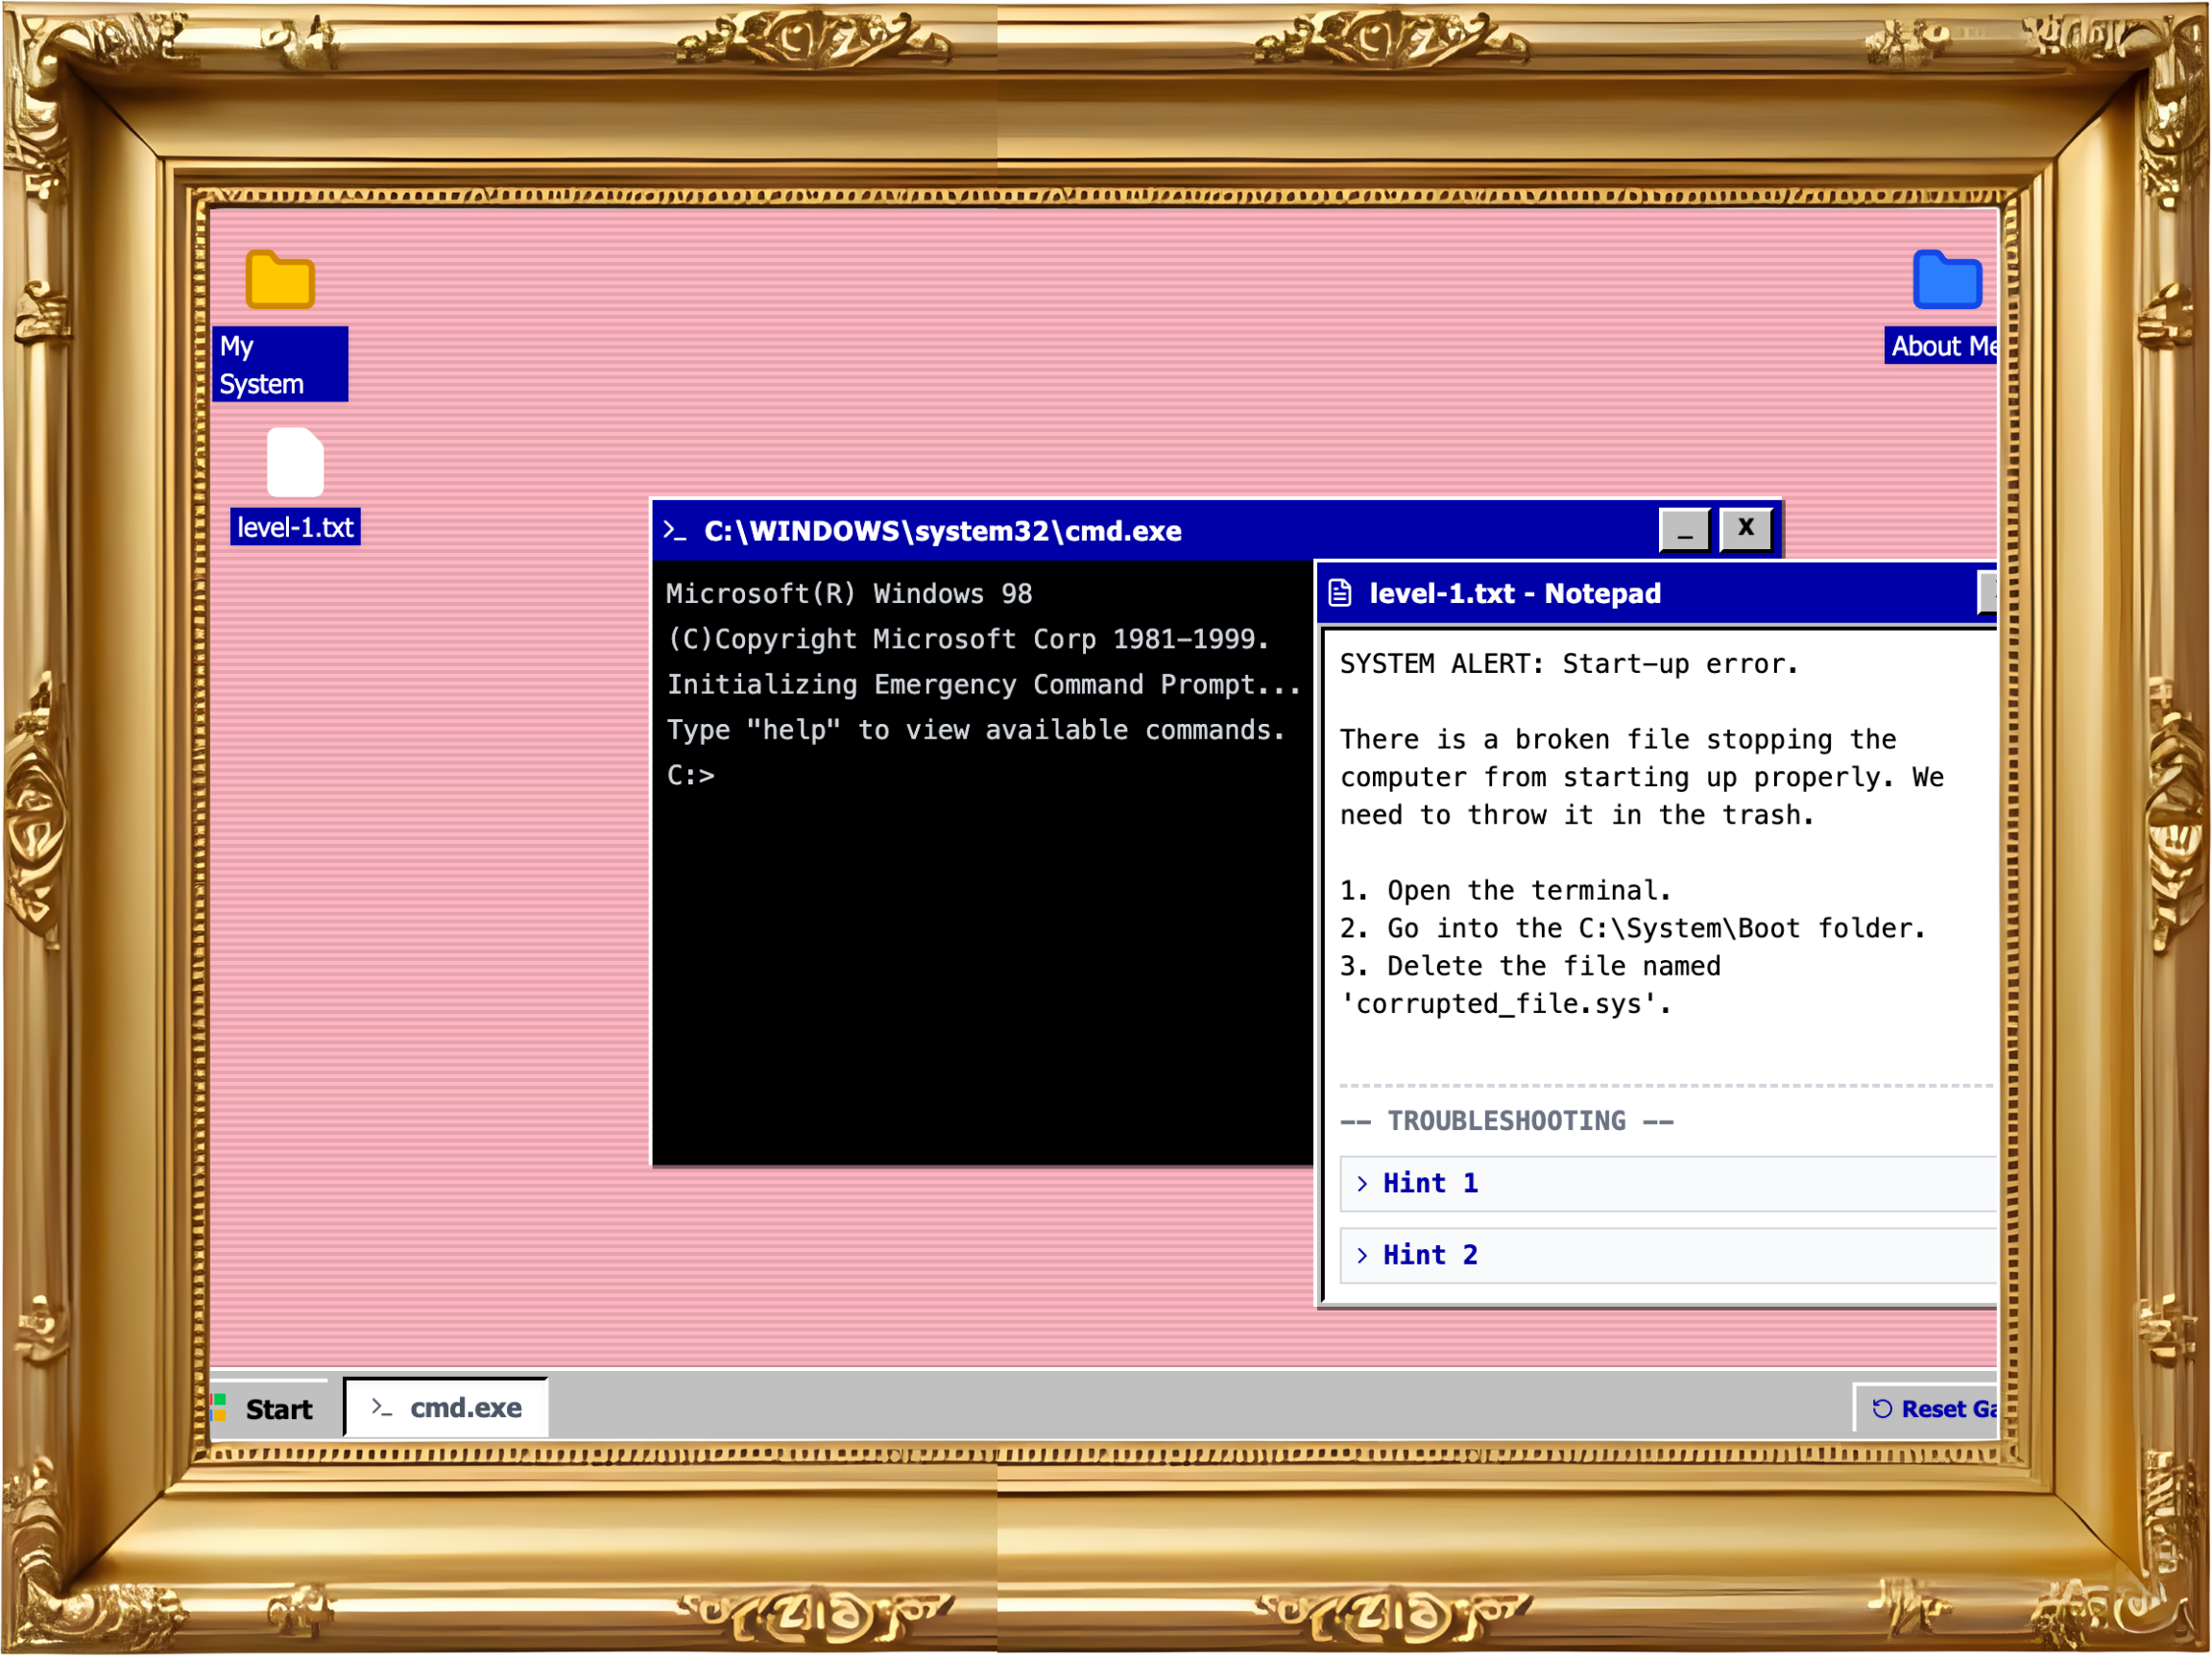
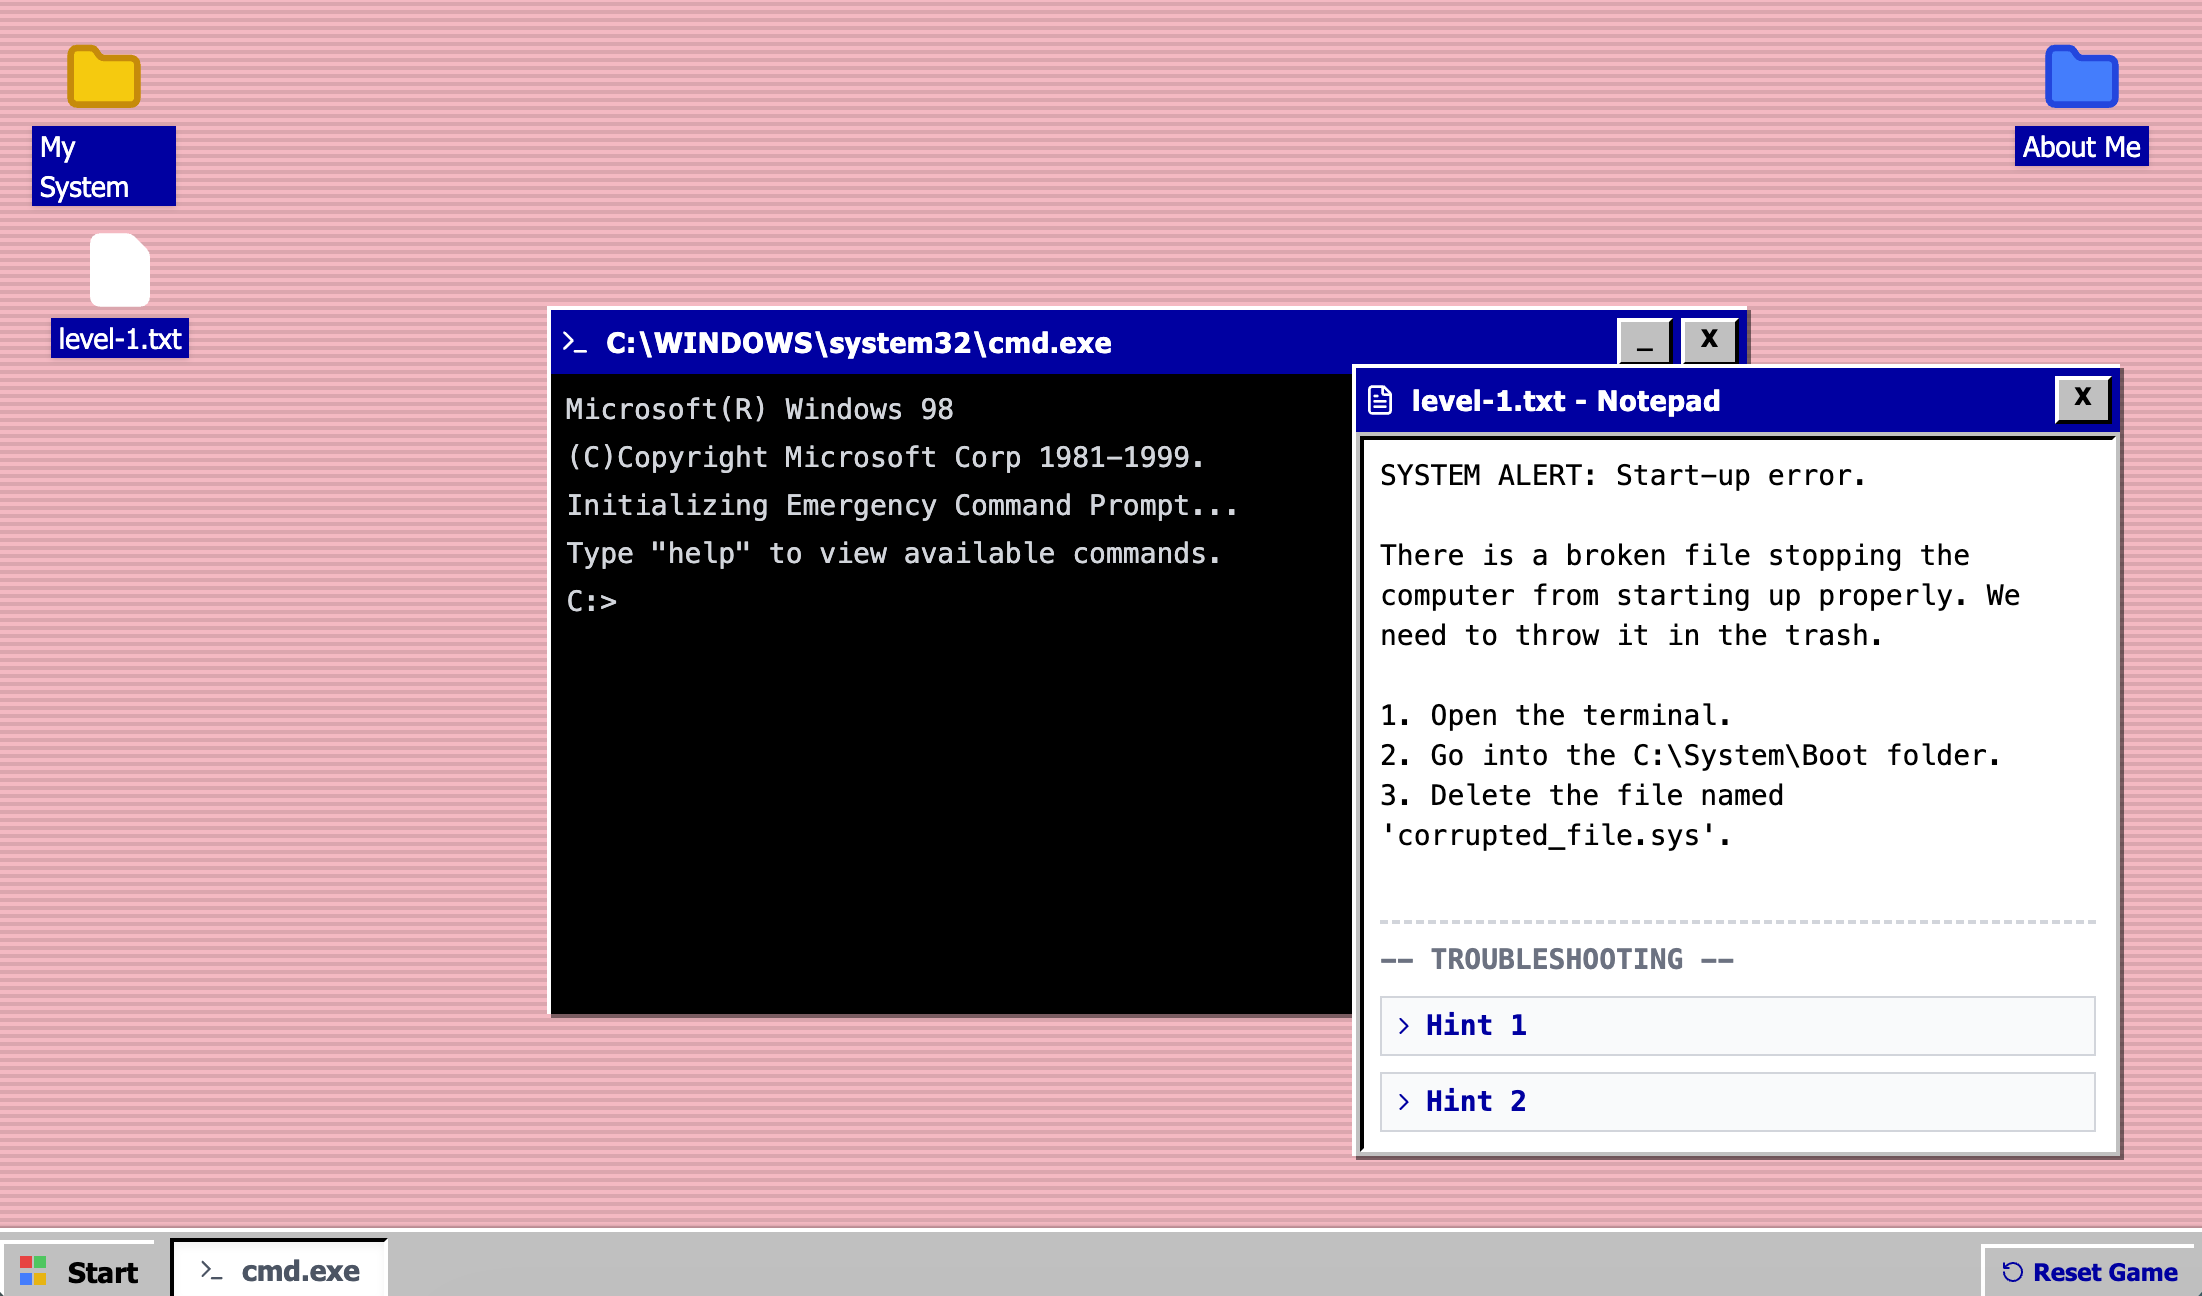
finished home page & started guestbook

diff --git a/src/components/GardenCanvas.jsx b/src/components/GardenCanvas.jsx
@@ -1,0 +1,91 @@
+import { useState, useRef } from 'react';
+import { motion, AnimatePresence } from 'framer-motion';
+
+export default function GardenCanvas() {
+	const gardenRef = useRef(null);
+	const [plantingSpot, setPlantingSpot] = useState(null);
+	
+	const [plantedFlowers, setPlantedFlowers] = useState([
+		{ id: 1, x: 20, y: 50, name: "Revati", flower: "Tulip" }
+	]);
+
+	const handleGardenClick = (e) => {
+		if (e.target.closest('.flower-element') || e.target.closest('.planting-modal')) {
+			return;
+		}
+
+		const rect = gardenRef.current.getBoundingClientRect();
+		
+		const xPercent = ((e.clientX - rect.left) / rect.width) * 100;
+		const yPercent = ((e.clientY - rect.top) / rect.height) * 100;
+
+		setPlantingSpot({ x: xPercent, y: yPercent });
+	};
+
+	const cancelPlanting = () => {
+		setPlantingSpot(null);
+	};
+
+	return (
+		<section className="w-full min-h-screen bg-canvas relative overflow-hidden flex flex-col pt-32 pb-20">
+			
+			<div className="text-center z-10 mb-8 pointer-events-none">
+				<h2 className="text-3xl md:text-5xl font-serif text-ink italic mb-4">Guestbook</h2>
+				<p className="text-slate font-sans max-w-md mx-auto">
+					Plant a flower and leave me a message!
+				</p>
+			</div>
+
+			<div 
+				ref={gardenRef}
+				onClick={handleGardenClick}
+				className="flex-grow w-full max-w-7xl mx-auto relative cursor-crosshair border-b-8 border-[#c88d9a]/20"
+				style={{ minHeight: '60vh' }}
+			>
+				
+				{plantedFlowers.map((flower) => (
+					<motion.div
+						key={flower.id}
+						className="absolute flower-element cursor-pointer group"
+						style={{ left: `${flower.x}%`, top: `${flower.y}%` }}
+						animate={{ rotate: [-2, 2, -2] }}
+						transition={{ repeat: Infinity, duration: 4, ease: "easeInOut" }}
+					>
+						<div className="w-12 h-12 bg-[#c88d9a] rounded-full flex items-center justify-center text-white text-xs shadow-md">
+							{flower.flower}
+						</div>
+						
+						<div className="absolute bottom-full left-1/2 -translate-x-1/2 mb-2 w-max bg-white px-3 py-1 rounded shadow-sm opacity-0 group-hover:opacity-100 transition-opacity pointer-events-none text-ink text-xs font-sans">
+							Planted by {flower.name}
+						</div>
+					</motion.div>
+				))}
+
+				<AnimatePresence>
+					{plantingSpot && (
+						<motion.div
+							initial={{ scale: 0, opacity: 0 }}
+							animate={{ scale: 1, opacity: 1 }}
+							exit={{ scale: 0, opacity: 0 }}
+							className="absolute -translate-x-1/2 -translate-y-1/2 z-50 planting-modal"
+							style={{ left: `${plantingSpot.x}%`, top: `${plantingSpot.y}%` }}
+						>
+							<div className="w-4 h-4 bg-ink rounded-full animate-pulse shadow-[0_0_15px_rgba(0,0,0,0.2)]" />
+							
+							<div className="absolute top-6 left-1/2 -translate-x-1/2 w-64 bg-white p-4 rounded-xl shadow-2xl border border-slate/10 flex flex-col gap-3">
+								<p className="text-sm font-serif italic text-ink text-center border-b border-slate/10 pb-2">Planting a new flower...</p>
+								<button 
+									onClick={cancelPlanting}
+									className="text-xs font-sans text-slate hover:text-ink squiggly-underline w-fit mx-auto"
+								>
+									Cancel
+								</button>
+							</div>
+						</motion.div>
+					)}
+				</AnimatePresence>
+
+			</div>
+		</section>
+	);
+}

diff --git a/src/components/Navigation.jsx b/src/components/Navigation.jsx
@@ -23,25 +23,26 @@ export default function Navigation() {
 		setWordIndex((prev) => (prev + 1) % actionWords.length);
 	};
 
-	const handleLinkClick = (e, path) => {
+	const handleLinkClick = (e, path, isExternal) => {
+		// 1. ALWAYS close the menu first, no matter what link is clicked
+		setIsOpen(false);
+
+		// 2. If it's an external link (like the CV), stop here and let the browser open it
 		if (isExternal) return;
 
+		// 3. Handle smooth scrolling for anchor links on the homepage
 		if (path === '/#about' && window.location.pathname === '/') {
 			e.preventDefault();
-			setIsOpen(false);
 			const aboutSection = document.getElementById('about');
 			if (aboutSection) {
 				aboutSection.scrollIntoView({ behavior: 'smooth' });
 			}
 		} else if (path === '/#contact' && window.location.pathname === '/') {
 			e.preventDefault();
-			setIsOpen(false);
 			const contactSection = document.getElementById('contact');
 			if (contactSection) {
 				contactSection.scrollIntoView({ behavior: 'smooth' });
 			}
-		} else {
-			setIsOpen(false);
 		}
 	};
 
@@ -60,8 +61,7 @@ export default function Navigation() {
 
 	return (
 		<>
-			{/* Added z-[110] here so the header is always on top of the menu overlay */}
-			<header className={`fixed top-0 left-0 right-0 w-full flex justify-between items-center p-8 pointer-events-none transition-colors duration-1000 ease-in-out z-[110]`}>
+			<header className={`fixed top-0 left-0 right-0 w-full flex justify-between items-center p-8 pointer-events-none transition-colors duration-1000 ease-in-out z-110`}>
 
 				<a 
 					href="/" 
@@ -118,20 +118,21 @@ export default function Navigation() {
 						animate={{ opacity: 1, backdropFilter: "blur(8px)" }}
 						exit={{ opacity: 0, backdropFilter: "blur(0px)" }}
 						transition={{ duration: 0.4 }}
-						/* Changed z-40 to z-[100] here to cover the footer */
-						className="fixed inset-0 bg-canvas/95 z-[100] flex items-center justify-center"
+						className="fixed inset-0 bg-canvas/95 z-100 flex items-center justify-center"
 					>
 						<nav className="flex flex-col gap-4 items-start">
 							{links.map((link, i) => (
 								<motion.a
 									key={link.name}
 									href={link.path}
+									target={link.isExternal ? "_blank" : undefined}
+									rel={link.isExternal ? "noopener noreferrer" : undefined}
 									initial={{ opacity: 0, y: 15 }}
 									animate={{ opacity: 1, y: 0 }}
 									exit={{ opacity: 0, y: 15 }}
 									transition={{ duration: 0.4, delay: i * 0.05, ease: [0.22, 1, 0.36, 1] }}
 									className="text-left leading-tight text-3xl md:text-4xl font-serif text-ink hover:text-slate transition-colors"
-									onClick={(e) => handleLinkClick(e, link.path)}
+									onClick={(e) => handleLinkClick(e, link.path, link.isExternal)}
 								>
 									{link.name}
 								</motion.a>

diff --git a/src/components/Hero.jsx b/src/components/Hero.jsx
@@ -84,8 +84,7 @@ export default function Hero() {
 					transition={{ duration: 1, delay: stage3Delay, type: "spring", bounce: 0.3 }}
 					className="flex flex-col items-center gap-5 group"
 				>
-					{/* Added shrink-0 to prevent huge scaling during transitions */}
-					<div className="w-20 h-24 shrink-0 flex items-center justify-center">
+					<div className="w-24 h-24 shrink-0 flex items-center justify-center">
 						<img src="/hero/about-icon.png" alt="About" className="w-full h-full object-contain drop-shadow-sm transition-all duration-300 ease-out group-hover:scale-[1.35] group-hover:-rotate-12 group-hover:drop-shadow-md"/>
 					</div>
 					<span className="text-base text-ink font-serif italic">About</span>
@@ -98,20 +97,21 @@ export default function Hero() {
 					transition={{ duration: 1, delay: stage3Delay + 0.1, type: "spring", bounce: 0.3 }}
 					className="flex flex-col items-center gap-5 group"
 				>
-					<div className="w-20 h-24 shrink-0 flex items-center justify-center">
+					<div className="w-24 h-24 shrink-0 flex items-center justify-center">
 						<img src="/hero/work-icon.png" alt="Work" className="w-full h-full object-contain drop-shadow-sm transition-all duration-300 ease-out group-hover:scale-[1.35] group-hover:-rotate-12 group-hover:drop-shadow-md"/>
 					</div>
 					<span className="text-base text-ink font-serif italic">Work</span>
 				</motion.a>
 
-				<motion.a 
+				<motion.a
 					href="/cv.pdf" 
+					target='_blank'
 					initial={{ opacity: 0, x: 150, y: -100 }}
 					animate={{ opacity: 1, x: 48, y: 0 }}
 					transition={{ duration: 1, delay: stage3Delay + 0.2, type: "spring", bounce: 0.3 }}
 					className="flex flex-col items-center gap-5 group"
 				>
-					<div className="w-20 h-24 shrink-0 flex items-center justify-center">
+					<div className="w-24 h-24 shrink-0 flex items-center justify-center">
 						<img src="/hero/cv-icon.png" alt="Download CV" className="w-full h-full object-contain drop-shadow-sm transition-all duration-300 ease-out group-hover:scale-[1.35] group-hover:-rotate-12 group-hover:drop-shadow-md"/>
 					</div>
 					<span className="text-base text-ink font-serif italic">Download CV</span>
@@ -247,7 +247,7 @@ export default function Hero() {
 					transition={{ duration: 1, delay: stage3Delay, type: "spring", bounce: 0.3 }}
 					className="flex flex-col items-center gap-5 group"
 				>
-					<div className="w-20 h-24 shrink-0 flex items-center justify-center">
+					<div className="w-24 h-24 shrink-0 flex items-center justify-center">
 						<img src="/hero/garden-icon.png" alt="Garden" className="w-full h-full object-contain drop-shadow-sm transition-all duration-300 ease-out group-hover:scale-[1.35] group-hover:rotate-12 group-hover:drop-shadow-md"/>
 					</div>
 					<span className="text-base text-ink font-serif italic">Garden</span>
@@ -260,7 +260,7 @@ export default function Hero() {
 					transition={{ duration: 1, delay: stage3Delay + 0.1, type: "spring", bounce: 0.3 }}
 					className="flex flex-col items-center gap-5 group"
 				>
-					<div className="w-20 h-24 shrink-0 flex items-center justify-center">
+					<div className="w-24 h-24 shrink-0 flex items-center justify-center">
 						<img src="/hero/guestbook-icon.png" alt="Guest Book" className="w-full h-full object-contain drop-shadow-sm transition-all duration-300 ease-out group-hover:scale-[1.35] group-hover:rotate-12 group-hover:drop-shadow-md"/>
 					</div>
 					<span className="text-base text-ink font-serif italic">Guest Book</span>
@@ -273,7 +273,7 @@ export default function Hero() {
 					transition={{ duration: 1, delay: stage3Delay + 0.2, type: "spring", bounce: 0.3 }}
 					className="flex flex-col items-center gap-5 group"
 				>
-					<div className="w-20 h-24 shrink-0 flex items-center justify-center">
+					<div className="w-24 h-24 shrink-0 flex items-center justify-center">
 						<img src="/hero/contact-icon.png" alt="Contact" className="w-full h-full object-contain drop-shadow-sm transition-all duration-300 ease-out group-hover:scale-[1.35] group-hover:rotate-12 group-hover:drop-shadow-md"/>
 					</div>
 					<span className="text-base text-ink font-serif italic">Contact</span>

diff --git a/src/components/SelectedWorks.jsx b/src/components/SelectedWorks.jsx
@@ -35,8 +35,7 @@ function ScatterItem({ scrollYProgress, scatterProgress, children, xVals, yVals,
 	return (
 		<motion.div 
 			style={{ x, y, rotate, opacity, pointerEvents }} 
-			className={`absolute top-0 left-0 z-20 ${size} will-change-transform`}
-		>
+			className={`absolute top-0 left-0 z-20 ${size} will-change-transform`}>
 			<motion.div
 				drag
 				whileDrag={{ scale: 1.1, zIndex: 50 }}

diff --git a/src/components/Footer.jsx b/src/components/Footer.jsx
@@ -3,7 +3,7 @@ export default function Footer() {
 		<footer className="relative w-full pt-8 pb-12 bg-[#FDF1F3] flex flex-col items-center justify-center z-50">
 			
 			<svg 
-				className="w-full h-12 md:h-16 absolute top-0 left-0 -translate-y-[99%] z-50 pointer-events-none" 
+				className="w-full h-12 md:h-16 absolute top-0 left-0 translate-y-[-99%] z-50 pointer-events-none" 
 				preserveAspectRatio="none" 
 				viewBox="0 0 1200 100"
 			>

diff --git a/README.md b/README.md
@@ -80,6 +80,13 @@ This is an hour by hour log of everything I worked on and when each feature was 
     * Added more items to my desk top section
     * Brainstormed ideas for the guestbook! (the most exciting feature imo)
     * Realized the dummy CV failed to upload from before so I readded it in
+16. Started working on guestbook feature
+    * Made the navbar automatically close after clicking a link
+    * Decided on a garden where users can send me a meessage!
+    * Created the new page & title
+    * Created hover effect on flowers to view who planted them
+    * [WIP] Finding flower images to upload
+    * [WIP] Setting up message upload system
 
 
 ---